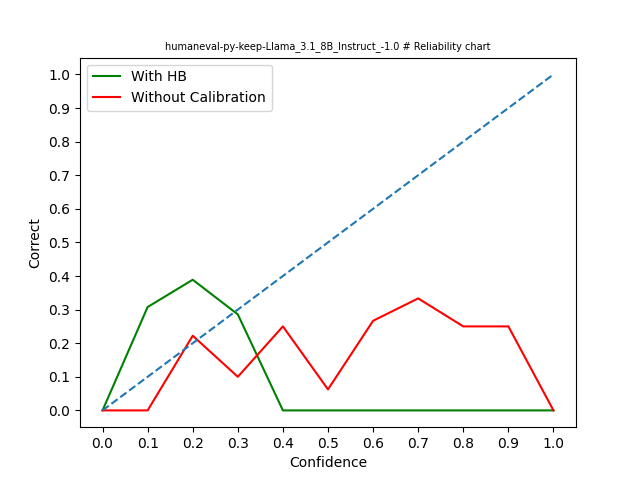
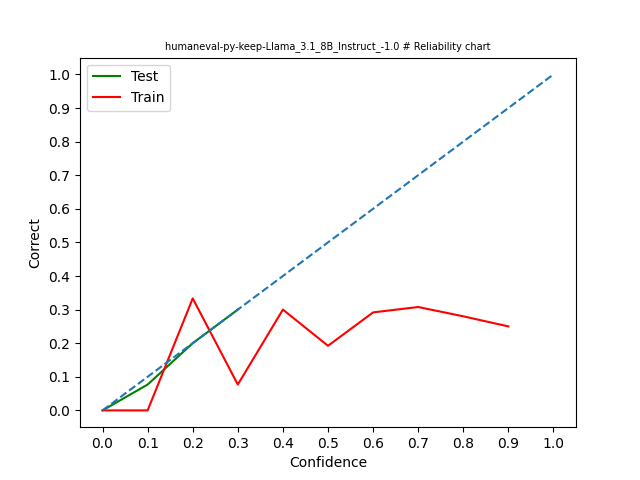
Changes changed plotting into one image deleted old graphs

diff --git a/histogramm_binning.py b/histogramm_binning.py
@@ -8,11 +8,12 @@ from sklearn.model_selection import train_test_split
 from tools import data, create_charts, binning
 from tools.hb_calibration import hb_calibration
 from tabulate import tabulate
+import matplotlib.pyplot as plt
 
 BASE_DIR    = "/data/stud/2025-MA-kuschnereit/masterarbeit/"
 CHART_DIR = BASE_DIR+"charts_multipl_e/"
 
-binning_type = 'quantil'
+binning_type = 'linear'
 binning_step_size = 0.1
 m = 10
 
@@ -49,7 +50,7 @@ def main():
         run = run.replace('/', '')
         results, temperature, top_p, num_samples = data.load_multipl_e_run(d)
         run_entry.append(num_samples)
-        if OUTPUTS: print(f"\nRun: {run}")
+        print(f"\nRun: {run}")
         if OUTPUTS: print(f"Temperature: {temperature}")
         if OUTPUTS: print(f"Num Problems: {num_samples}")
 
@@ -103,6 +104,7 @@ def main():
         
         colors_fit = []
         colors_test = []
+
         # define chart ranges for display reasons
         if binning_type == 'linear':
             chart_range = np.arange(0, 1.1, 0.1)
@@ -120,9 +122,18 @@ def main():
 
 
         # create different charts
-        create_charts.calibration_comparision_chart(chart_range, f_dach, fit_correct_per_bin, CHART_DIR+run+'/hb/'+binning_type+"/calibration_chart.png", run)
-        create_charts.calibration_bar_chart(chart_range, fit_correct_per_bin, CHART_DIR+run+'/hb/'+binning_type+"/calibration_bar_chart_train.png", run, bar_width, colors_fit, fit_total_per_bin)
-        create_charts.calibration_bar_chart(chart_range, f_dach, CHART_DIR+run+'/hb/'+binning_type+"/calibration_bar_chart_f_dach.png", run, bar_width, colors_test, test_total_per_bin)
+        create_charts.calibration_comparision_chart(chart_range[test_total_per_bin != 0], chart_range[fit_total_per_bin != 0], f_dach[test_total_per_bin != 0], fit_correct_per_bin[fit_total_per_bin != 0], CHART_DIR+run+'/hb/'+binning_type+"/calibration_comparison.png", run)
+        
+        fig, axs = plt.subplots(2, 2, figsize=(10, 10))
+        fig.suptitle(run+' # Calibration Charts', fontsize=14)
+        create_charts.calibration_bar_chart(axs[0, 0], 'Training set calibration', chart_range, fit_correct_per_bin, bar_width, colors_fit, fit_total_per_bin)
+        create_charts.calibration_bar_chart(axs[0, 1], 'Test set calibration', chart_range, f_dach, bar_width, colors_test, test_total_per_bin)
+        
+        create_charts.count_distribution(axs[1, 0],'Traing set distribution', chart_range, fit_total_per_bin, bar_width)
+        create_charts.count_distribution(axs[1, 1],'Test set distribution', chart_range, test_total_per_bin, bar_width)
+        
+        plt.savefig(CHART_DIR+run+'/hb/'+binning_type+"/calibration_infos.png")
+        plt.close() 
             
         table_print.append(run_entry)
         

diff --git a/tools/create_charts.py b/tools/create_charts.py
@@ -1,11 +1,11 @@
 import matplotlib.pyplot as plt
 import numpy as np
 
-def calibration_comparision_chart(y, x1, x2 ,path, run):
+def calibration_comparision_chart(y1, y2, x1, x2 ,path, run):
     plt.title(run+' # Reliability chart', fontsize=7)
-    plt.plot(y, x1, color="green")
-    plt.plot(y, x2, color="red")
-    plt.legend(["With HB", "Without Calibration"])
+    plt.plot(y1, x1, color="green")
+    plt.plot(y2, x2, color="red")
+    plt.legend(["Test", "Train"])
     plt.plot([0, 1], [0, 1], linestyle='--')
     plt.xticks(np.arange(0, 1.1, 0.1))
     plt.yticks(np.arange(0, 1.1, 0.1))
@@ -23,19 +23,31 @@ def histogram(data, path, run, typ):
     print(f"Histogram saved: {path}")
     plt.close()
 
+def count_distribution(ax, sub_title, y, totals, width):
+    #fig, ax = plt.subplots() 
+    ax.set_title(sub_title, fontsize=12)
+    bars = ax.bar(y, totals, width = width, color=['tab:blue'], edgecolor='black')
+    ax.bar_label(bars, totals)
+    ax.set_xticks(np.arange(0, 1.1, 0.1))
+    ax.set(xlabel ='Confidence')
+    ax.set(ylabel ='Count')
+    #return ax
+    #plt.savefig(path)
+    #plt.close()  
 
-
-def calibration_bar_chart(y, x, path, run, width, bar_colors, totals):
-    plt.title(run+' # Reliability chart', fontsize=7)
-    bars = plt.bar(y, x, width = width, color=bar_colors, edgecolor='black')
-    plt.plot([0, 1], [0, 1], linestyle='--')
-    plt.bar_label(bars, totals)
-    plt.xticks(np.arange(0, 1.1, 0.1))
-    plt.yticks(np.arange(0, 1.1, 0.1))
-    plt.xlabel('Confidence')
-    plt.ylabel('Correct')
-    plt.savefig(path)
-    plt.close()
+def calibration_bar_chart(ax, sub_title, y, x, width, bar_colors, totals):
+    #fig, ax = plt.subplots() 
+    ax.set_title(sub_title, fontsize=12)
+    bars = ax.bar(y, x, width = width, color=bar_colors, edgecolor='black')
+    ax.plot([0, 1], [0, 1], linestyle='--')
+    ax.bar_label(bars, totals)
+    ax.set_xticks(np.arange(0, 1.1, 0.1))
+    ax.set_yticks(np.arange(0, 1.1, 0.1))
+    ax.set(xlabel ='Confidence')
+    ax.set(ylabel ='Correct')
+    #return ax
+    #plt.savefig(path)
+    #plt.close()
 
 def stacked_bar_plot(x, y1, y2, path, run, width):
     plt.bar(x, y1, color='g', width = width, edgecolor='black')

diff --git a/tools/hb_calibration.py b/tools/hb_calibration.py
@@ -88,13 +88,13 @@ class hb_calibration:
         if self.debug: print(f"TRAIN Correct per bin: {correctness_per_bin}") 
 
         # Calculate correcteness bias in the given bin
-        self.delta_p_f_ =  np.round(np.array([np.mean(y[(assigend_bins == i)] -  X[(assigend_bins == i)]) for i in self.grid]), 2)
+        self.delta_p_f_ =  np.round(np.array([np.mean(y[(assigend_bins == i)] -  assigend_bins[(assigend_bins == i)]) for i in self.grid]), 2)
         self.delta_p_f_[np.isnan(self.delta_p_f_)] = 0
 
         print(f"{colored('Deltas', 'green')}: {self.delta_p_f_}\n")
         # Calculate some scores on the given data like MSE, ECE, ASCE, ...
         scores = self.calculate_scores(True, 
-                                       X, 
+                                       assigend_bins, 
                                        y, 
                                        num_correct, 
                                        num_samples, 
@@ -129,13 +129,13 @@ class hb_calibration:
         total_per_bin, correctness_per_bin, confidence_per_bin = binning.bin_round_probabilities_discret(assigend_bins_corrected, y, self.grid)
 
         # Calculate the deltas on the corrected values
-        deltas_test= np.round(np.array([np.mean(y[(assigend_bins_corrected == i)]) -  np.mean(X_[(assigend_bins_corrected == i)]) for i in self.grid]), 2)
+        deltas_test= np.round(np.array([np.mean(y[(assigend_bins_corrected == i)]) -  np.mean(assigend_bins_corrected[(assigend_bins_corrected == i)]) for i in self.grid]), 2)
         deltas_test[np.isnan(deltas_test)] = 0
 
-        if self.outputs: print(f"{colored('Deltas Test', 'green')}: {deltas_test}\n")
+        print(f"{colored('Deltas Test', 'green')}: {deltas_test}\n")
 
         scores = self.calculate_scores(False, 
-                                       X_, 
+                                       assigend_bins_corrected, 
                                        y, 
                                        num_correct, 
                                        num_samples, 
